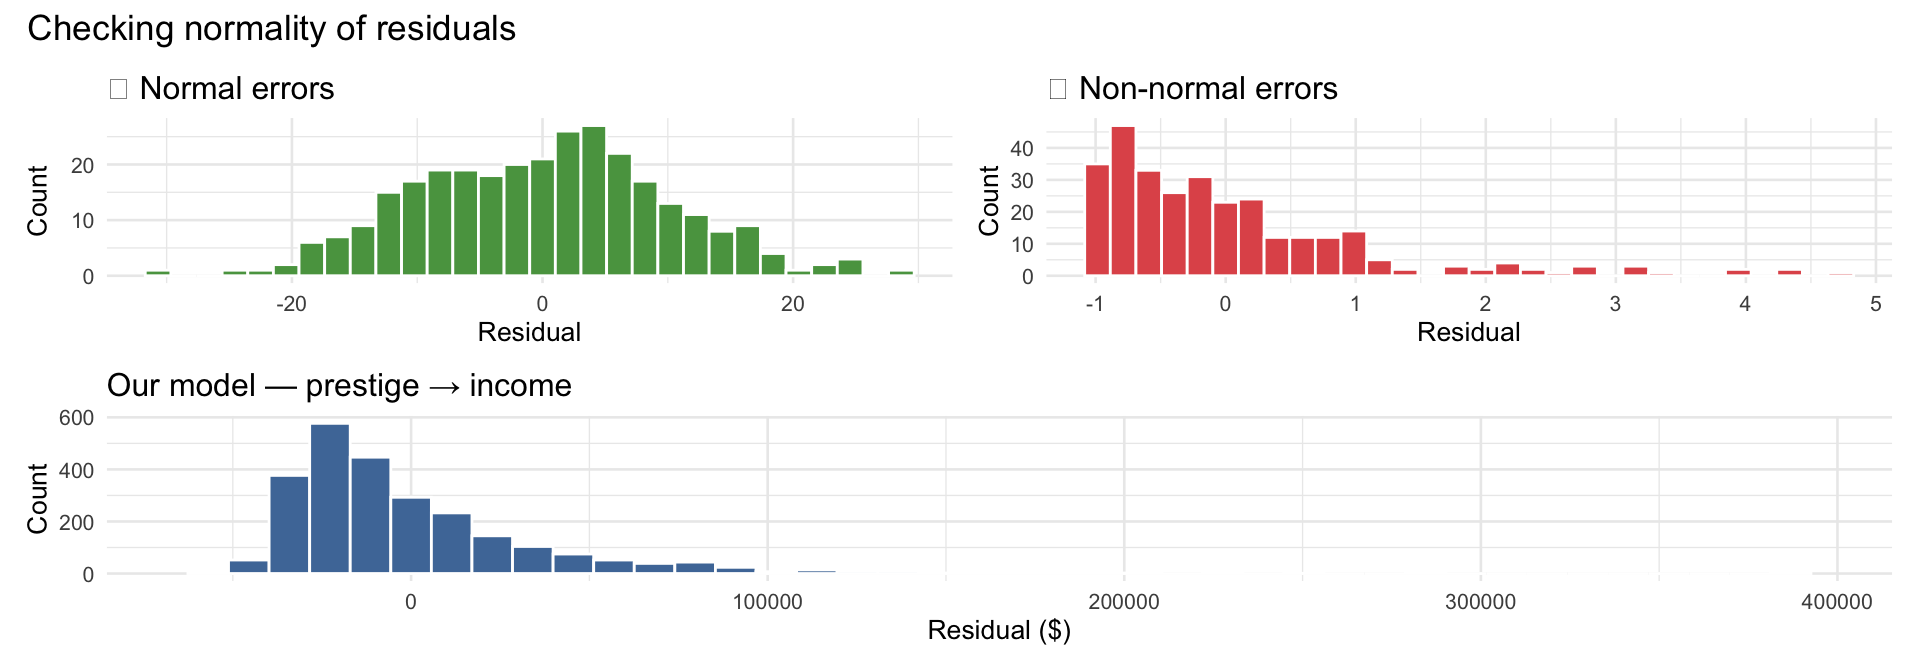
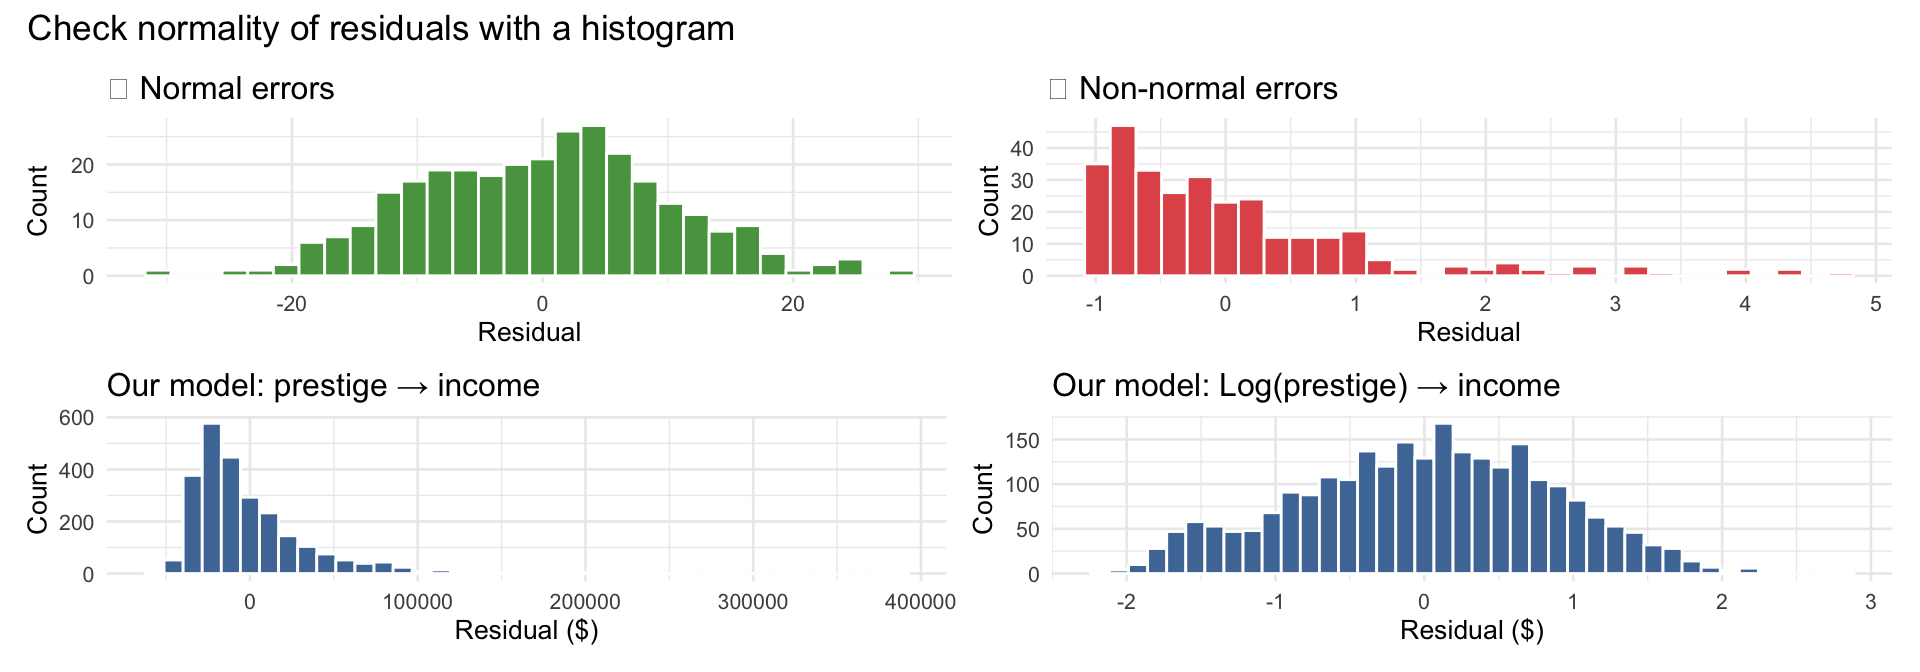
add log of outcome to induce normality of residuals

diff --git a/docs/slides/week11.html b/docs/slides/week11.html
@@ -1171,7 +1171,6 @@ bachelor graduate high sch junior c  lt high
 </div>
 <div id="tabset-6-3">
 <p><strong>The errors are approximately normally distributed</strong> — most important in small samples. In large samples, violations are usually not a big problem (Central Limit Theorem applies).</p>
-<p>Check with a histogram of residuals:</p>
 <div class="cell" data-layout-align="center">
 <div class="cell-output-display">
 <div class="quarto-figure quarto-figure-center">
@@ -1296,8 +1295,8 @@ bachelor graduate high sch junior c  lt high
 </div>
 </div>
 </section>
-<section id="what-do-control-variables-actually-do" class="slide level2 smaller">
-<h2>What Do Control Variables Actually Do?</h2>
+<section id="what-do-control-variables-do" class="slide level2 smaller">
+<h2>What Do Control Variables Do?</h2>
 <p>When we add a control variable to a regression, we are <strong>partitioning the variation</strong> in the outcome:</p>
 <div class="fragment fade-up">
 <p><strong>Without a control:</strong></p>
